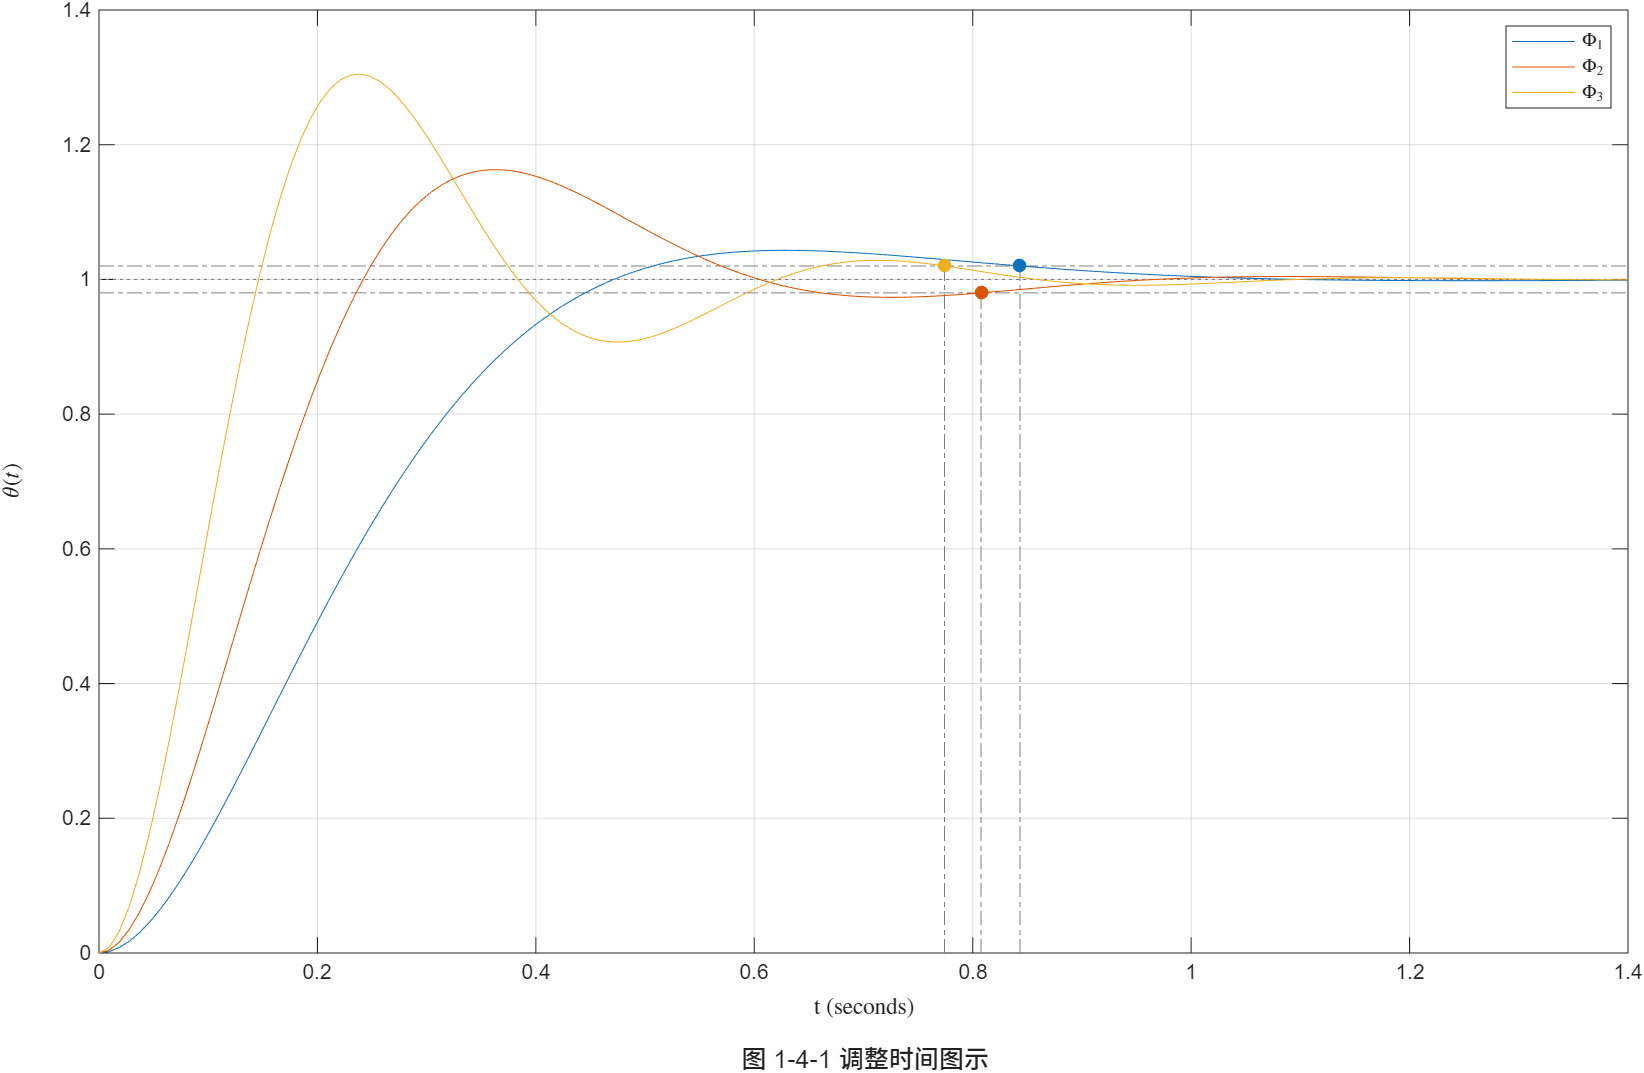
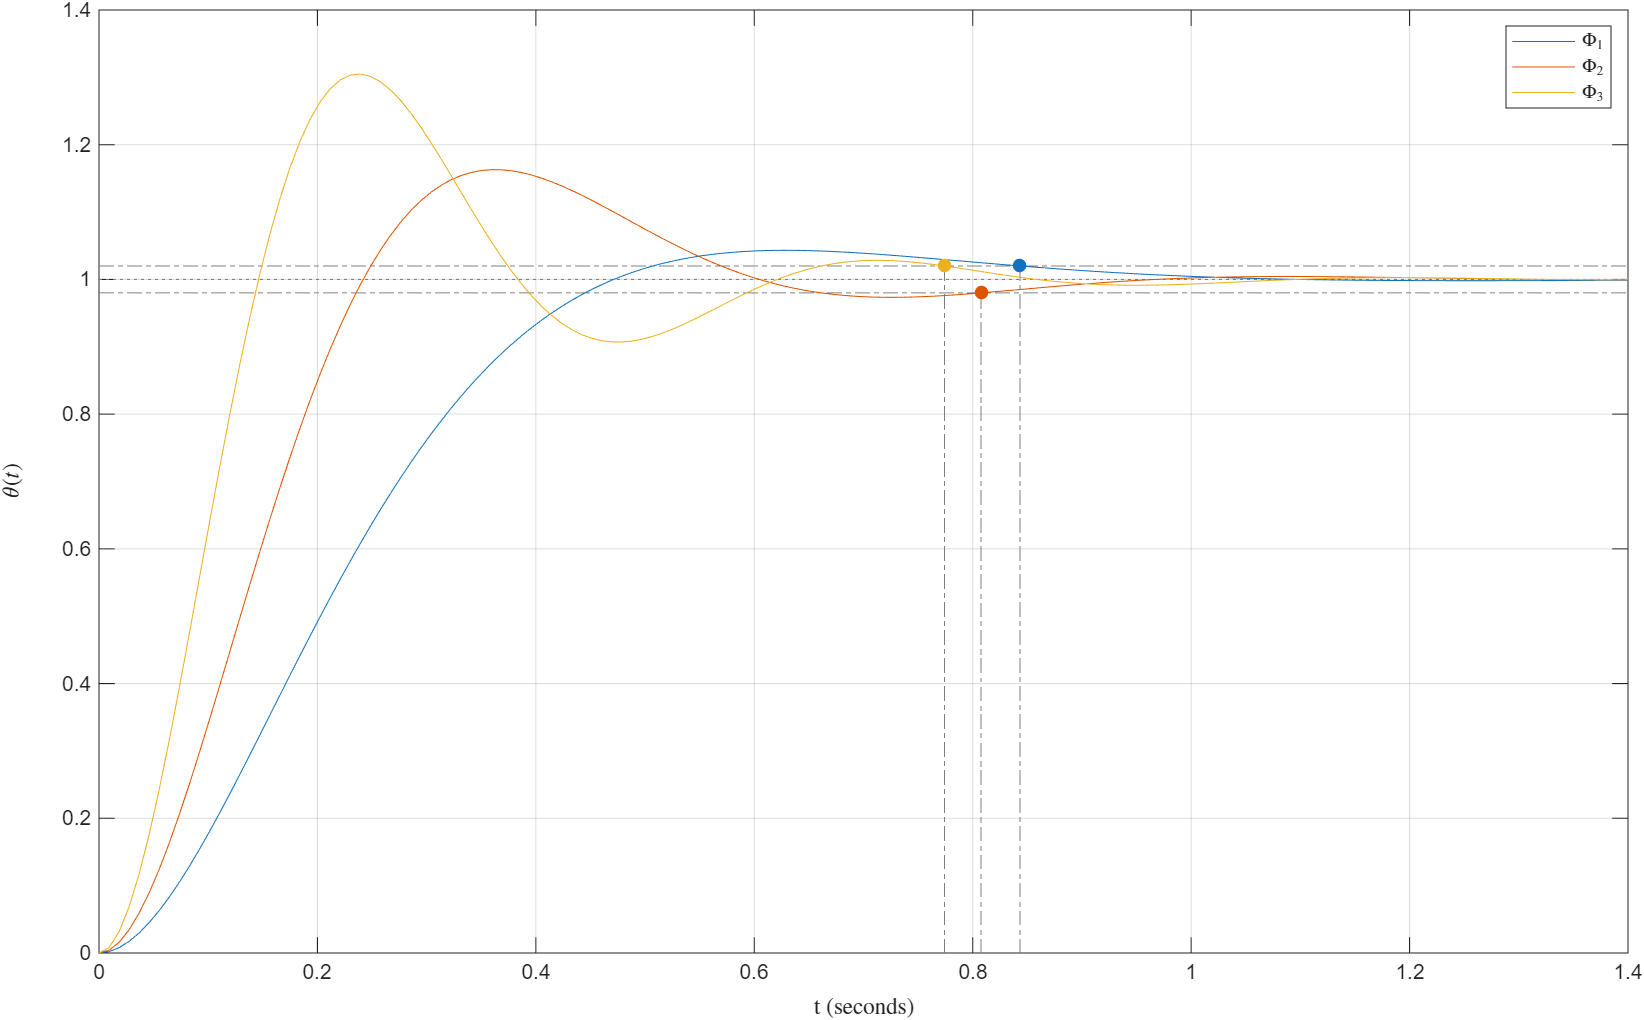
ADD: use pandoc, change figure title visibility

diff --git a/task1_1.m b/task1_1.m
@@ -32,11 +32,11 @@ Phi_e = feedback(G_e, 1);
 figure();
 step(Phi_a, Phi_b, Phi_c, Phi_d, Phi_e);
 title("");
-text(0.5, -0.1, '图 1-1 五组阶跃响应叠加图', ...
-    'Units', 'normalized', ...
-    'HorizontalAlignment', 'center', ...
-    'VerticalAlignment', 'top', ...
-    'FontSize', 12);
+% text(0.5, -0.1, '图 1-1 五组阶跃响应叠加图', ...
+%     'Units', 'normalized', ...
+%     'HorizontalAlignment', 'center', ...
+%     'VerticalAlignment', 'top', ...
+%     'FontSize', 12);
 grid on;
 xlabel("t", "Interpreter", "latex");
 ylabel("$\theta(t)$", "Interpreter", "latex");
@@ -65,11 +65,11 @@ hold on;
 sp = stepplot(Phi_b, Phi_a, Phi_c);
 sp.Characteristics.SettlingTime.Visible = true;
 title("");
-text(0.5, -0.1, '图 1-4-1 调整时间图示', ...
-    'Units', 'normalized', ...
-    'HorizontalAlignment', 'center', ...
-    'VerticalAlignment', 'top', ...
-    'FontSize', 12);
+% text(0.5, -0.1, '图 1-4-1 调整时间图示', ...
+%     'Units', 'normalized', ...
+%     'HorizontalAlignment', 'center', ...
+%     'VerticalAlignment', 'top', ...
+%     'FontSize', 12);
 grid on;
 xlabel("t", "Interpreter", "latex");
 ylabel("$\theta(t)$", "Interpreter", "latex");
